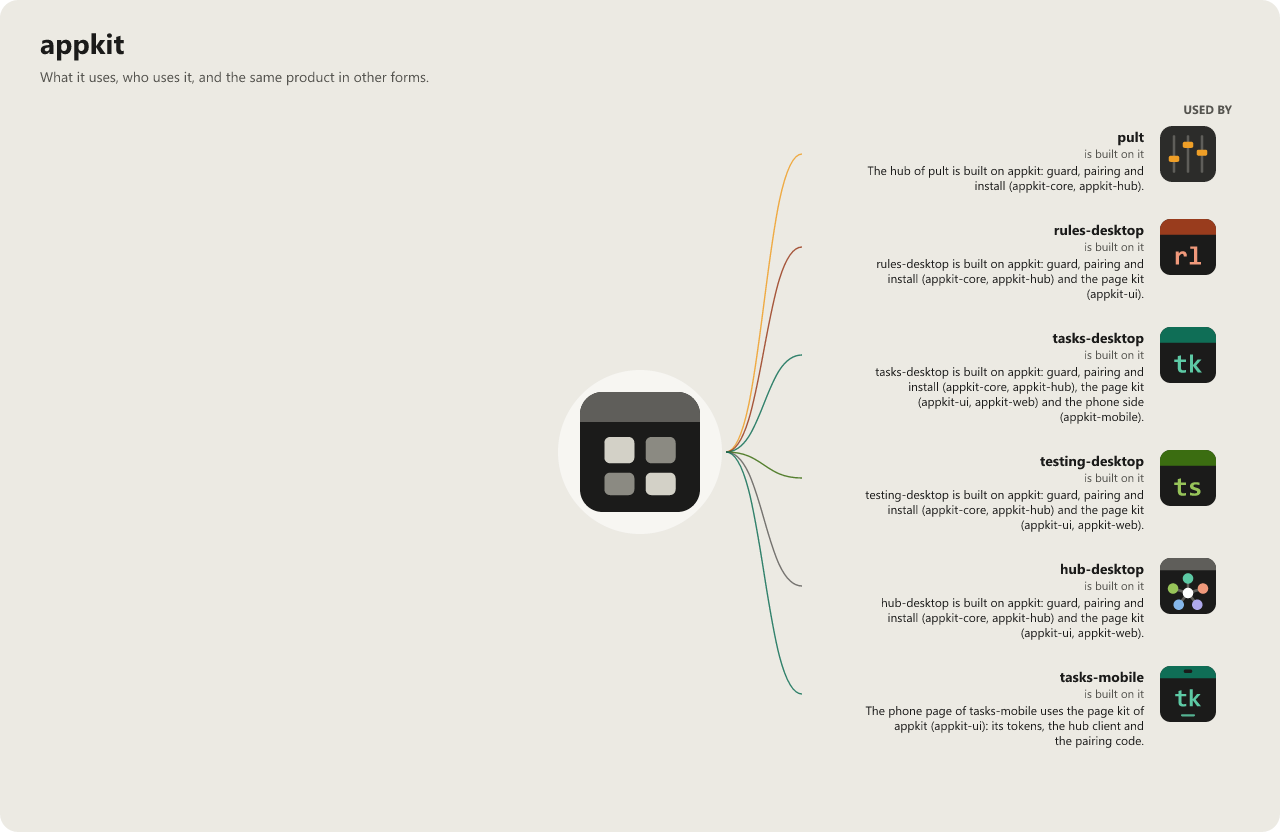
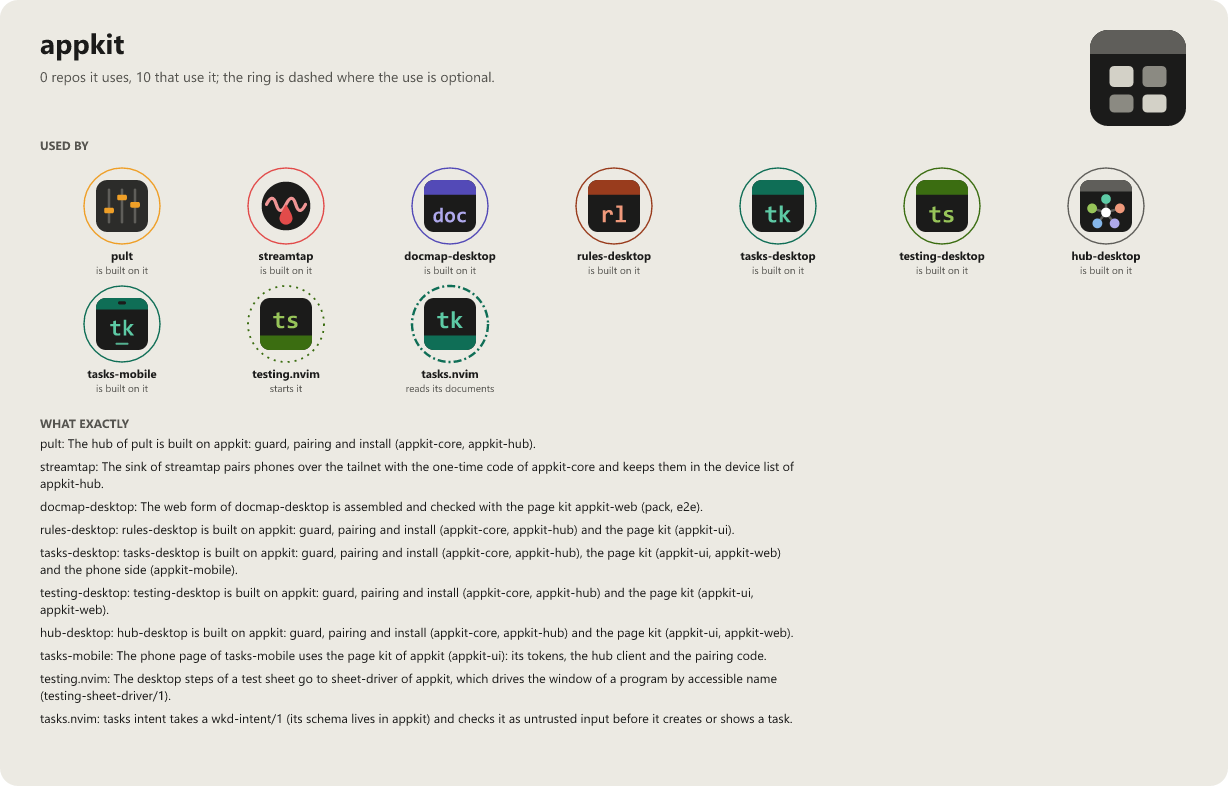
docs(graphs): connections through optional loaders, programs, HTTP and files
The connections picture and the README block now also show what the require rule did not see: optional loads through soft_require, lib.nvim.require.safe and package.loaded, and connections over programs, HTTP and files, each with a line of code as evidence. Written by the app-icons tool of the workshop (graphs.mjs install-repos).

diff --git a/README.md b/README.md
@@ -166,10 +166,14 @@ MIT, see [LICENSE](LICENSE).
 
 **Used by**
 
+- [docmap-desktop](https://github.com/WKDSteve/docmap-desktop): The web form of docmap-desktop is assembled and checked with the page kit `appkit-web` (`pack`, `e2e`). ([picture](assets/graphs/pair/docmap-desktop--appkit.png))
 - [hub-desktop](https://github.com/WKDSteve/hub-desktop): hub-desktop is built on appkit: guard, pairing and install (`appkit-core`, `appkit-hub`) and the page kit (`appkit-ui`, `appkit-web`). ([picture](assets/graphs/pair/hub-desktop--appkit.png))
 - [pult](https://github.com/WKDSteve/pult): The hub of pult is built on appkit: guard, pairing and install (`appkit-core`, `appkit-hub`). ([picture](assets/graphs/pair/pult--appkit.png))
 - [rules-desktop](https://github.com/WKDSteve/rules-desktop): rules-desktop is built on appkit: guard, pairing and install (`appkit-core`, `appkit-hub`) and the page kit (`appkit-ui`). ([picture](assets/graphs/pair/rules-desktop--appkit.png))
+- [streamtap](https://github.com/WKDSteve/streamtap): The sink of streamtap pairs phones over the tailnet with the one-time code of `appkit-core` and keeps them in the device list of `appkit-hub`. ([picture](assets/graphs/pair/streamtap--appkit.png))
 - [tasks-desktop](https://github.com/WKDSteve/tasks-desktop): tasks-desktop is built on appkit: guard, pairing and install (`appkit-core`, `appkit-hub`), the page kit (`appkit-ui`, `appkit-web`) and the phone side (`appkit-mobile`). ([picture](assets/graphs/pair/tasks-desktop--appkit.png))
 - [tasks-mobile](https://github.com/WKDSteve/tasks-mobile): The phone page of tasks-mobile uses the page kit of appkit (`appkit-ui`): its tokens, the hub client and the pairing code. ([picture](assets/graphs/pair/tasks-mobile--appkit.png))
+- [tasks.nvim](https://github.com/WKDSteve/tasks.nvim): `tasks intent` takes a `wkd-intent/1` (its schema lives in appkit) and checks it as untrusted input before it creates or shows a task. ([picture](assets/graphs/pair/tasks.nvim--appkit.png))
 - [testing-desktop](https://github.com/WKDSteve/testing-desktop): testing-desktop is built on appkit: guard, pairing and install (`appkit-core`, `appkit-hub`) and the page kit (`appkit-ui`, `appkit-web`). ([picture](assets/graphs/pair/testing-desktop--appkit.png))
+- [testing.nvim](https://github.com/WKDSteve/testing.nvim): The desktop steps of a test sheet go to `sheet-driver` of appkit, which drives the window of a program by accessible name (`testing-sheet-driver/1`). ([picture](assets/graphs/pair/testing.nvim--appkit.png))
 <!-- connections:end -->
